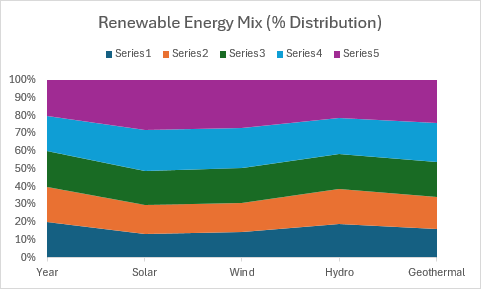
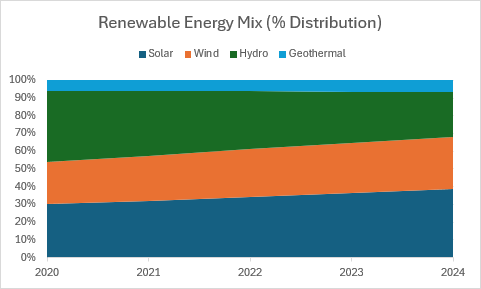
Header consistency

diff --git a/docs/resources/samples/chart-samples.md b/docs/resources/samples/chart-samples.md
@@ -686,13 +686,13 @@ function main(workbook: ExcelScript.Workbook) {
   const sheet = workbook.getActiveWorksheet();
   
   // Add sample data.
-  const data = [
-    ["Year", "Solar", "Wind", "Hydro", "Geothermal"],
-    [2019, 120, 150, 180, 40],
-    [2020, 145, 175, 185, 45],
-    [2021, 175, 205, 190, 50],
-    [2022, 210, 240, 195, 55],
-    [2023, 250, 280, 200, 60]
+    const data = [
+    ["", "Solar", "Wind", "Hydro", "Geothermal"],
+    ["2020", 150, 120, 200, 30],
+    ["2021", 180, 145, 205, 35],
+    ["2022", 220, 175, 210, 40],
+    ["2023", 270, 210, 215, 48],
+    ["2024", 330, 250, 220, 55]
   ];
   const dataRange = sheet.getRange("A1:E6");
   dataRange.setValues(data);
@@ -704,6 +704,13 @@ function main(workbook: ExcelScript.Workbook) {
   );
   chart.setPosition("A8");
   chart.getTitle().setText("Renewable Energy Mix (% Distribution)");
+  
+  // Label the series with energy source names.
+  const seriesCollection = chart.getSeries();
+  seriesCollection[0].setName("Solar");
+  seriesCollection[1].setName("Wind");
+  seriesCollection[2].setName("Hydro");
+  seriesCollection[3].setName("Geothermal");
   
   chart.getLegend().setPosition(ExcelScript.ChartLegendPosition.top);
 }
@@ -1258,7 +1265,7 @@ function main(workbook: ExcelScript.Workbook) {
 }
 ```
 
-## Treemap chart
+## Treemap charts
 
 Treemap charts display hierarchical data as nested rectangles, with size representing values.
 
@@ -1297,7 +1304,7 @@ function main(workbook: ExcelScript.Workbook) {
 }
 ```
 
-## Sunburst chart
+## Sunburst charts
 
 Sunburst charts display hierarchical data in concentric circles, with each level represented by a ring.
 
@@ -1335,7 +1342,7 @@ function main(workbook: ExcelScript.Workbook) {
 }
 ```
 
-## Waterfall chart
+## Waterfall charts
 
 Waterfall charts show how an initial value is affected by positive and negative values, displaying the cumulative effect.
 
@@ -1372,7 +1379,7 @@ function main(workbook: ExcelScript.Workbook) {
 }
 ```
 
-## Funnel chart
+## Funnel charts
 
 Funnel charts show progressive reduction of data through stages. Use them for sales and conversion analysis.
 
@@ -1404,7 +1411,7 @@ function main(workbook: ExcelScript.Workbook) {
 }
 ```
 
-## Box and whisker chart
+## Box and whisker charts
 
 Box and whisker charts show the distribution of data through quartiles. They highlight the median and outliers.
 
@@ -1453,7 +1460,7 @@ function main(workbook: ExcelScript.Workbook) {
 }
 ```
 
-## Histogram chart
+## Histogram charts
 
 Histogram charts display the distribution of numerical data by grouping values into bins.
 
@@ -1506,7 +1513,7 @@ function main(workbook: ExcelScript.Workbook) {
 }
 ```
 
-## Pareto chart
+## Pareto charts
 
 Pareto charts combine column and line charts to show both individual values and cumulative totals. They follow the 80/20 principle.
 
@@ -1677,7 +1684,7 @@ function main(workbook: ExcelScript.Workbook) {
 }
 ```
 
-## Region map chart
+## Region map charts
 
 Region map charts, also called filled map charts, display values across geographical regions.
 
@@ -1791,7 +1798,11 @@ function main(workbook: ExcelScript.Workbook) {
 
 ## 3D chart variations
 
-### Cone column chart
+These chart types display data with three-dimensional visual effects using cone, cylinder, and pyramid shapes.
+
+### Cone column charts
+
+#### Cone column chart
 
 :::image type="content" source="../../images/cone-column-chart.png" alt-text="A 3D cone column chart showing quarterly performance with cone-shaped columns.":::
 
@@ -1915,7 +1926,9 @@ function main(workbook: ExcelScript.Workbook) {
 }
 ```
 
-### Cylinder column chart
+### Cylinder column charts
+
+#### Cylinder column chart
 
 :::image type="content" source="../../images/cylinder-column-chart.png" alt-text="A 3D cylinder column chart displaying product sales with cylindrical columns.":::
 
@@ -2039,7 +2052,9 @@ function main(workbook: ExcelScript.Workbook) {
 }
 ```
 
-### Pyramid column chart
+### Pyramid column charts
+
+#### Pyramid column chart
 
 :::image type="content" source="../../images/pyramid-column-chart.png" alt-text="A 3D pyramid column chart showing organizational hierarchy with pyramid-shaped columns.":::
 
